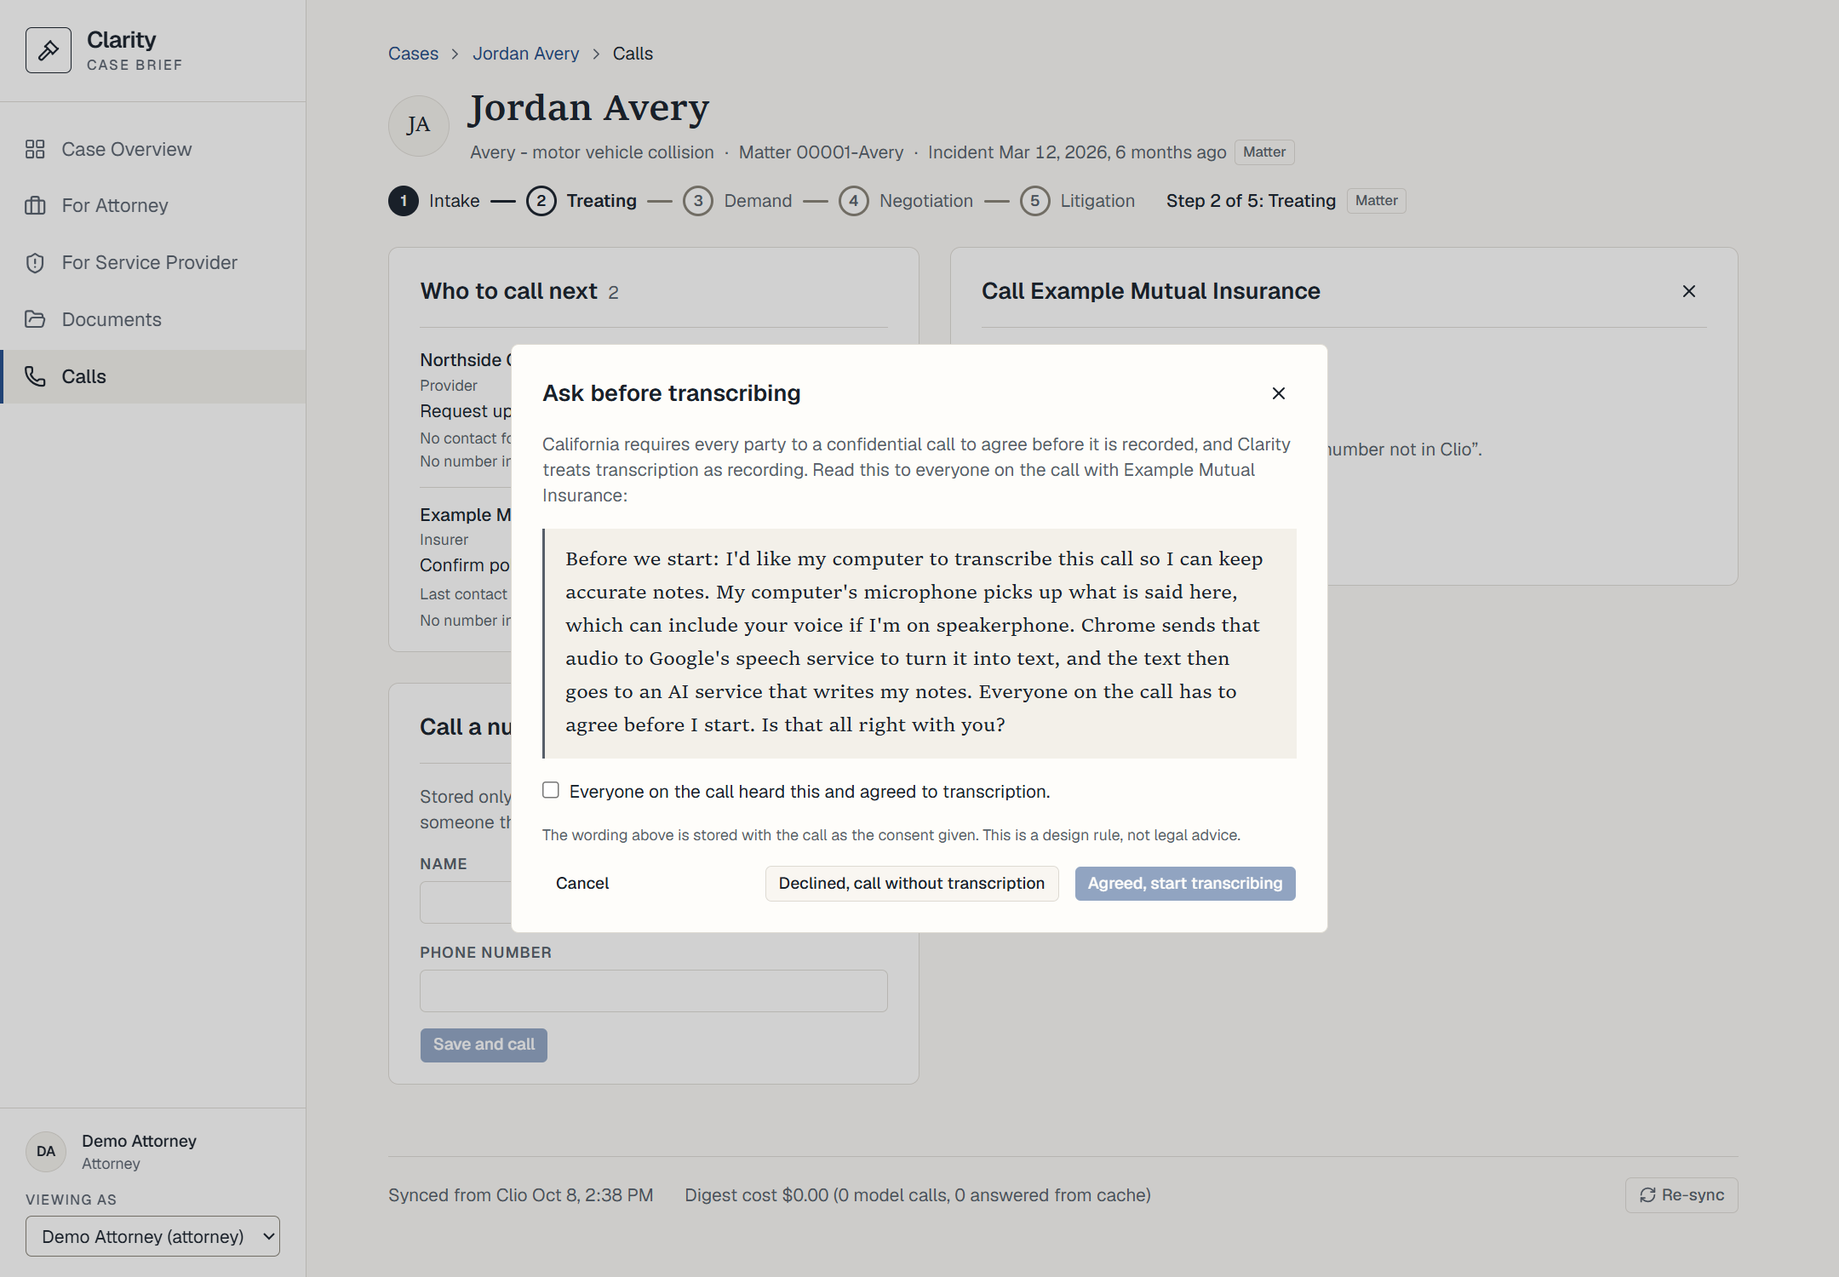
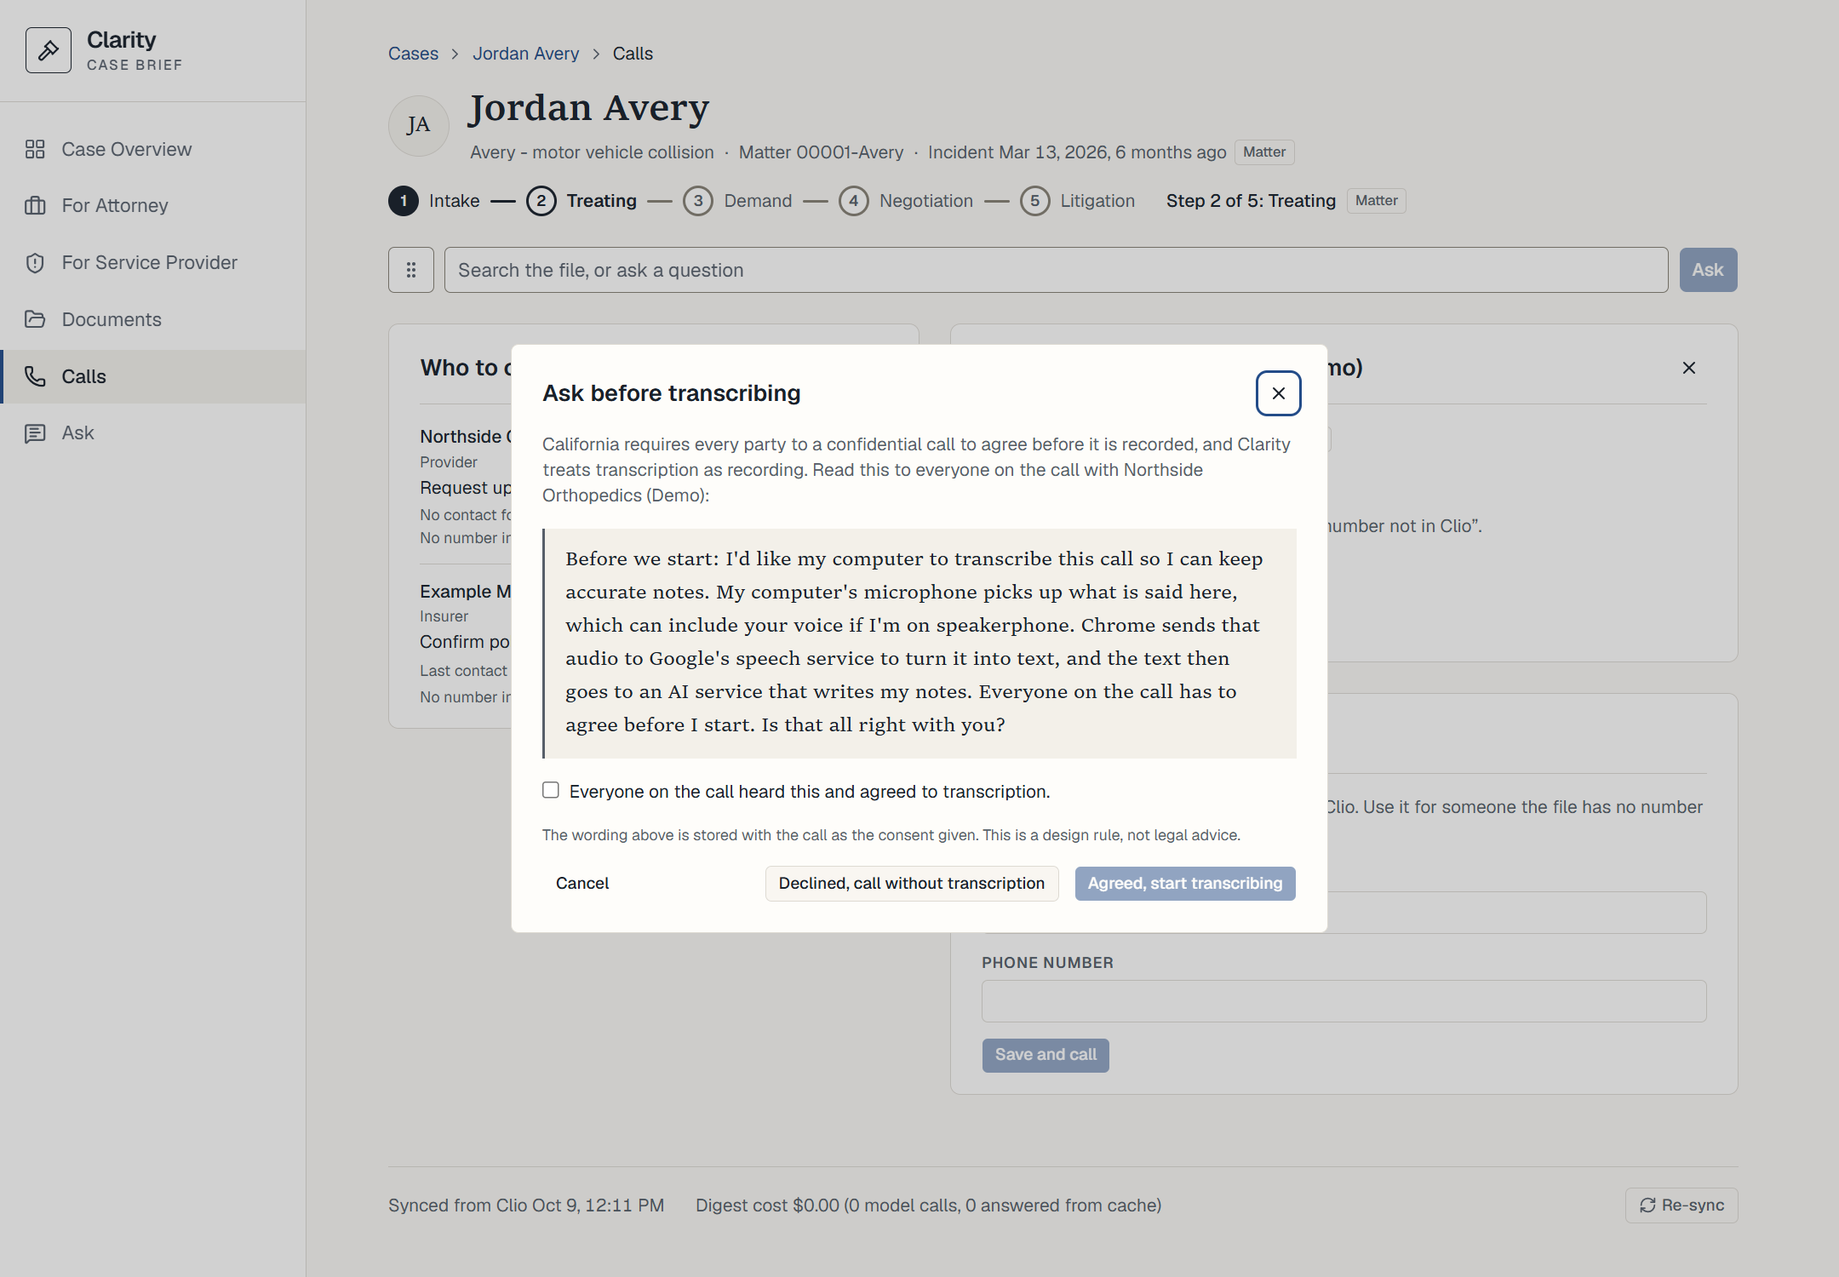
Retake ten screenshots on the invented matter after D54 and caption each from what it shows: the one-line Ask bar, blocks on cards, Deadlines and follow-ups, the story newest first, the drawer's cited passage, the consent dialog, and a provider page from a new link with its lien out of the total

diff --git a/README.md b/README.md
@@ -4,24 +4,27 @@ Clarity turns one personal-injury matter in Clio Manage into two views. The firm
 
 Built for the Swans Applied AI Hackathon (Law-Di-Gras, San Diego, October 2, 2026), then finished in a trial run by a team of agents (see [The trial](#the-trial)).
 
-| Case Overview | The Overview, one scroll down |
+| Case Overview, the first screen | The Overview, one scroll down |
 |---|---|
-| ![Case Overview: the client and the stage track, the bottom line, what happened, the Now strip and the money tiles, with each line's sources in the margin](docs/screenshots/overview.png) | ![The Overview one scroll down: the story so far, ten key events numbered oldest first, each with its date, its lane and its source chips in the margin, a filed complaint among them; then Where it stands, the brief's sentences one per row with their chips, one chip outlined dashed for low confidence](docs/screenshots/overview-story.png) |
+| ![Case Overview at 1440 by 900: the header with the client's name, the case line with the incident date and its chip, and the five-step stage track at Step 2 of 5; the one-line Ask bar; then each block on a card of its own: the bottom line, its offer figure checked with its chip; What happened, with the incident, two injuries and liability, each line's chips in the margin; Deadlines and follow-ups, with an overdue task, the statute, the last client contact and the to-do counts; and the four Money tiles at the fold](docs/screenshots/overview.png) | ![The Overview one scroll down: The story so far, marked newest first, ten events numbered down from 10 to the incident at 1, each with its date, its lane as a mark and a word, and its chips in the margin, the complaint filed as event 5; Full timeline; then Where it stands, the brief's six sentences one per row with their chips, one chip outlined dashed for low confidence, and two questions under Not answered by the file](docs/screenshots/overview-story.png) |
 | **The source drawer** | **For Attorney** |
-| ![The source drawer opened from a diagnosis: its kind, date, confidence and origin, the document's title, the quote and the page it came from, and the scanned page itself, page 2 of 2, with the case dimmed behind](docs/screenshots/source-drawer.png) | ![For Attorney: the action board as a table, What matters, injuries and providers](docs/screenshots/attorney.png) |
-| **For Service Provider (the firm's preview)** | **The provider's own page** |
-| ![The firm's preview of a provider's link](docs/screenshots/provider-preview.png) | ![The provider page at /p/token: the provider's own bills, with a lien labelled and kept out of the total](docs/screenshots/provider-page.png) |
-| **The draft checker, in the share composer** | **Calls** |
-| ![A note to a provider: its bill total supported with a chip, an internal figure locked as Don't send](docs/screenshots/draft-check.png) | ![Calls: who to call next, and the consent step before transcription](docs/screenshots/calls.png) |
+| ![The source drawer opened from a diagnosis, the Overview blurred behind it: the fact's kind, date, confidence and Extracted by the model; the cited passage in a callout headed Page 2; the document's type, upload date and title; Previous and Next around Page 2 of 2; and the page itself](docs/screenshots/source-drawer.png) | ![For Attorney as a full page: the header and the Ask bar; the action board as a table of task, due date, owner and status, the overdue task first; What matters, the top 10 facts by significance, with a switch to the full timeline; the injuries; the two providers, each with Share and Not shared; and the footer with the last sync, the digest cost and Re-sync](docs/screenshots/attorney.png) |
+| **For Service Provider (the firm's preview)** | **The provider's own page, from a new link** |
+| ![The firm's preview as a full page: the header and the Ask bar; a provider picker that says the server applies the provider page's own filter; then what a new link would show the chosen physical therapy office: the case status on an eight-step track, coverage confirmed, nothing outstanding, its one bill and its total, no records, and one recent update, Moved to treatment](docs/screenshots/provider-preview.png) | ![The provider page at /p/token as a full page, from a link made for the orthopedic office, with no rail and no Ask bar: case status, coverage confirmed, one records request, the total billed by the office across its one bill, then Bills and liens, noting that liens are not added to the total, with the lien row labelled Lien; its records, one recent update, and the dates the link was shared and stops working](docs/screenshots/provider-page.png) |
+| **The draft checker, in the share composer** | **Calls: the consent step** |
+| ![The share composer for the orthopedic office: on the left, the items the link would show, each with a visibility toggle, then a note to the provider whose bill total is supported, with a check and its chip, and whose sentence giving an internal figure is locked as Don't send, Kept internal: never shared with providers, with its note's chip and Remove sentence; Create link greyed out, with a note to remove the sentences marked Don't send; on the right, the preview of what the provider sees](docs/screenshots/draft-check.png) | ![Calls with the consent dialog open, Ask before transcribing: why consent is needed, the wording to read to everyone on the call with the provider, a checkbox that everyone heard it and agreed, a note that the wording is stored with the call, and Cancel, Declined, call without transcription, and Agreed, start transcribing; behind it, dimmed, the list of who to call and a field for a typed phone number](docs/screenshots/calls.png) |
 | **Documents** | **The Overview at phone width** |
-| ![Documents: every cited source grouped by record type, a filter button per type with its count, and under each source the facts it holds, each a link that opens it](docs/screenshots/documents.png) | <img src="docs/screenshots/overview-phone.png" width="300" alt="The Overview at 390 pixels wide: the rail folded into a top bar with a Menu button, the header and stage track wrapped, the bottom line with a checked figure and its chip, and What happened with the chips under each line"> |
+| ![Documents: the header and the Ask bar, a filter button per record type with its count, All 18 across nine types, and the sources grouped by type, each group on a card of its own, each row a date and the facts that source holds, each a link that opens it](docs/screenshots/documents.png) | <img src="docs/screenshots/overview-phone.png" width="300" alt="The Overview at 390 pixels wide: the rail folded into a top bar with a Menu button, the header and stage track wrapped, the Ask bar on one line, the bottom line with its checked figure and its chip, and What happened with the chips under each line"> |
 | **Ask, an answered question** | **Ask, the same thread closed** |
 | ![The Ask view, scrolled below the header: the matter's questions on the left, one thread under Open with a Close button; on the right the question How is this figure reached?, with the Medical specials tile attached and its chips, five answer sentences each with its source chips beneath it, the answer's time and cost, and the follow-up box](docs/screenshots/ask.png) | ![The same thread after Close: the list reads No open questions and holds it under Closed; on the right a note that Demo Attorney closed it and that this is the transcript as it read then, a Download transcript link and a New question button, then the same five sentences and chips, with no follow-up box](docs/screenshots/ask-closed.png) |
 
-The screenshots show the invented matter that `cli seed-dev` loads, never the real one: a screenshot of the real matter would commit a real person's medical details (D33).
-- **The first ten** were taken on 2026-10-08, before D44 to D50, so they show neither the Ask bar nor the later changes to the Overview: each block on a card of its own, the story newest first, and "Deadlines and follow-ups" as the title of the Now block.
+All twelve screenshots show the invented matter that `cli seed-dev` loads, never the real one: a screenshot of the real matter would commit a real person's medical details (D33).
+- **The first ten** were retaken by the lead on 2026-10-09, after D54, from a separate server that holds only the invented matter. The provider page comes from a link made for it then. The reviewer opened each one and wrote its caption from what it shows.
+  - The Overview's two screens, the source drawer and Documents are 1440×900 at 1.5× pixel density.
+  - For Attorney, the firm's preview and the provider page are full pages, 1440 wide.
+  - Calls and the draft checker are 1440×1000; the Overview at phone width is 390 wide at 2×.
 - **The two Ask screenshots** were taken by the lead on 2026-10-09 after D52, and committed in `69285d3`. The answer is a real one: one question to `claude-sonnet-5-5` on the invented matter, $0.017, never a seeded answer (D52). The reviewer read that server's `GET /api/ops/cost` (1 chat call, 17,398 micro-dollars) and the thread through its GET routes, which call no model.
-  - They were taken under chat prompt version 1. In two of the five sentences, the answer calls a total "code-computed" and reports Clarity's low-confidence reading of a charge as something the file marks (critic, Pass 7). Version 2 (D53) tells the model to write neither. The screenshots have not been retaken, so they still show the old wording.
+  - They were taken under chat prompt version 1, before D53's version 2. In two of the five sentences, the answer calls a total "code-computed" and reports Clarity's low-confidence reading of a charge as something the file marks (critic, Pass 7). Version 2 tells the model to write neither, so these two show the old wording.
 
 ## Run it
 
@@ -244,7 +247,7 @@ Seen working on the hackathon's matter, and by whom.
   - **The D40 fixes were in place for the re-count** (`fe07ba2` to `53523da`, code only, no model call, described under [The views](#the-views)): a met statute reads "Met"; earlier stages are not marked completed; injuries show one row per body region; liability shows two facts; "Overdue" heads the Now cell when its item is overdue; the count reads "open requests"; the story has no deadlines; restating records are counted once each. The lead did not report checking each fix on its own.
   - **Seen by the reviewer on 2026-10-08:**
     - through the API on the real matter, read-only: the story's 10 events include no deadline, and the incident account cites 9 records;
-    - in the lead's screenshots of the invented matter: earlier stages filled with no check mark, "Overdue" heading the Now cell, and "1 open request".
+    - in the lead's screenshots of the invented matter, then and again in the set of 2026-10-09: earlier stages filled with no check mark, "Overdue" heading the next-step cell, and "1 open request".
   - Backend tests cover the key events and the incident account (`backend/tests/test_backend_key_events.py`, `test_backend_incident_account.py`). The reviewer has read the code and seen the lead's screenshots of the invented matter, not the real matter's screens.
 - **The critic's fourth pass (C4, `docs/reviews/critic.md`), on the real matter on 2026-10-08:** through the API and the code at `e61aee2`, with no browser, and the database opened read-only.
   - It traced every block of the new Overview to its sources. Every chip it opened holds its text.
@@ -319,7 +322,7 @@ By the reviewer, on the invented matter, on 2026-10-07:
   - At `389927b`, every route the Overview calls answered 200 in under 20 ms: the header, the brief, key events, injuries, actions, the liability and deadline timelines, and the changes.
   - At `1707584`, after the fixture gained records that give an incident account (`0deb4a1`), the header's `incident_account` carries its text and one record restating it. `key-events` returned 10 events, oldest first, with that account's fact first.
   - At `889debf`, after D41, `seed-dev` first failed on the old schema, then passed after `upgrade_schema`. Since `5fb132f`, `seed-dev` upgrades its database itself. The story's 10 events then included the invented matter's court event. Both providers' previews listed one update, "Moved to treatment".
-  - At `827f2d2`, after D42 and D43, `seed-dev` passed on the clone's existing database in about 4 s. The matter's routes answered 200: the header, the brief, key events and the undated list, actions, the feed, the timeline, injuries, providers, shares, calls, and the changes once a stub user was chosen. A fact's source and the page images were not called; the lead's drawer screenshot shows both. `key-events` returned 10 events, oldest first, each with a source, the court event among them. `key-events/undated` returned none, because the invented matter's one court event is dated, so the line under the story is absent there. The clone's TypeScript check passed. The lead's four newest screenshots were taken from this clone.
+  - At `827f2d2`, after D42 and D43, `seed-dev` passed on the clone's existing database in about 4 s. The matter's routes answered 200: the header, the brief, key events and the undated list, actions, the feed, the timeline, injuries, providers, shares, calls, and the changes once a stub user was chosen. A fact's source and the page images were not called; the lead's drawer screenshot of that day showed both. `key-events` returned 10 events, oldest first, each with a source, the court event among them. `key-events/undated` returned none, because the invented matter's one court event is dated, so the line under the story is absent there. The clone's TypeScript check passed. The lead took four screenshots from this clone that day; the set of 2026-10-09 replaced them.
 - Sharing:
   - A created link returns exactly what the preview showed.
   - A withdrawn link returns 410.
@@ -331,21 +334,15 @@ By the reviewer, on the invented matter, on 2026-10-07:
   - The server refuses a share whose note holds the internal figure (422) and accepts one that does not (201).
 - After D35's backend change (`01d6e41`), a live link served each item in its bills list as a bill or a lien.
 
-By the lead, in the browser, on the clean clone's invented matter:
-- **On 2026-10-08, after D43:** four more screenshots, from the clone at `827f2d2` (`af595b2`), at 1440×900 and 1.5× pixel density unless noted:
-  - **the Overview one scroll down:** the story so far, ten events with the filed complaint fifth, in the Case lane, then Where it stands, where one chip carries the dashed outline of a low-confidence fact. "Since you last opened" is absent; the lead reports that the visit was recorded before the shot;
-  - **the source drawer, opened from a diagnosis:** its kind, date, confidence and origin, the document's title, the quote with "Quoted from page 2", and that page, a scan, as page 2 of 2;
-  - **Documents:** all 18 cited sources, with a filter for each of the nine record types, grouped by type. Each row is one source and lists the facts it holds as links, so a group's count is of sources, not of the titles under it;
-  - **the Overview at 390 CSS px, at 2×:** the rail folded into a top bar with Menu, the header and stage track wrapped, the bottom line's figure checked with its chip, and What happened with the chips under each line. The lead measured no horizontal scroll (a scroll width of 390 px).
-
-  The reviewer checked each against its caption. By the lead's account, the other six were not retaken because their views have not changed: U18's undated line is empty on the invented matter, and B16 reorders only the story, below the first screen.
-- **On 2026-10-08, after D38 to D40:** the lead retook the other six (the Overview's first screen, For Attorney, the provider preview and page, Calls and the draft checker) from the clone at `6c58e37` (`506267f`), and the provider page and preview again after D41 (`c32693d`), whose Recent updates now read "Moved to treatment":
-  - the Overview's first screen at 1440×900;
-  - For Attorney and the provider preview as full pages;
-  - Calls with the consent step, and the draft checker, at 1440×1000;
-  - the provider page at 1280 px wide, as a full page.
-
-  The reviewer checked each against its caption.
+By the lead, in the browser, on the invented matter:
+- **On 2026-10-09, after D54:** the ten screenshots above other than Ask's, retaken from a separate server that holds only the invented matter; the reviewer read its `GET /api/matters`, which lists that one matter. The reviewer opened each image and checked it against its caption. Across them:
+  - the one-line Ask bar is on the Overview, For Attorney, the firm's preview, Documents and Calls, and at phone width; the provider's own page has none;
+  - each Overview block is on a card of its own, and the deadlines block is titled "Deadlines and follow-ups";
+  - the story is marked "newest first" and numbered down from 10, so the incident is 1;
+  - the drawer sets the cited passage in a callout headed by its page, above "Page 2 of 2" with Previous and Next;
+  - Calls shows the consent dialog, "Ask before transcribing";
+  - the provider page, from a link made then for the orthopedic office, lists its lien labelled "Lien" under "Bills and liens", and its total counts the one bill.
+- **On 2026-10-07 and 2026-10-08,** the earlier sets came from the reviewer's clean clone (`d62208c` to `af595b2`), and the reviewer checked each against its captions then. On 2026-10-08 the lead measured no horizontal scroll on the Overview at 390 CSS px (a scroll width of 390 px). The set of 2026-10-09 replaced them.
 - **While taking the earlier set, on 2026-10-07,** the freeze fixes `b71b281`, `1b5c369` and `cfc121b` (D35):
   - the Case value range fits its tile, breaking after its dash;
   - on the provider page and the firm's preview, the list reads "Bills and liens", with a caption that liens are not added to the total;

diff --git a/STATUS.md b/STATUS.md
@@ -10,7 +10,7 @@ Each role edits only its own row. Keep cells under 15 words. Update with /status
 | ui-builder | D54 done: closed thread's chips open the frozen route (`&frozen=`), drawer says "As cited when this thread was closed.", step keeps it, close drops it; headless 14/14, chat mocked | Lead: check in browser (demo, thread 1) | backend: freeze mention-mark chips too (`sentence.mentions[].facts`), else a closed thread's differs chip 404s | | 2026-10-09 14:31 |
 | researcher | Done: briefs/model-pricing.md, paid-tier prices; unblocks lead and pipeline (P10, D34) | Idle | lead: commit model-pricing.md (no shell) | Manager: which paid provider and model for the runs | 2026-10-08 |
 | critic | Pass 7 (H8, D52): stage date is Clio record creation, still misleads; T2 t3 S2 false "Not in file"; frozen chips break on re-read | Stand by | | Undate stage fact; source date counts as cited; freeze chip source+page | 2026-10-09 13:55 |
-| reviewer | README for D54: frozen sources in Ask and Built, lightly tested (backend, lead, reviewer GETs), route, table, map; D53 half-done item removed; image limit and pre-D54 first-open gap (matches kind and page, not record) under Half-done; check.sh no FAIL, 560; Node tests SKIPPED (verified nothing) | Standing by | | backend/Manager: pre-D54 first-open check compares source type and page, not source id | 2026-10-09 14:39 |
+| reviewer | README screenshots: ten retaken after D54 opened, alt text and captions rewritten from the images, note dated, old-set claims removed; check.sh no FAIL, 560; Node tests SKIPPED (verified nothing) | Standing by | | backend/Manager: pre-D54 first-open check compares source type and page, not source id | 2026-10-09 14:56 |
 
 ## Stubs and shortcuts
 
